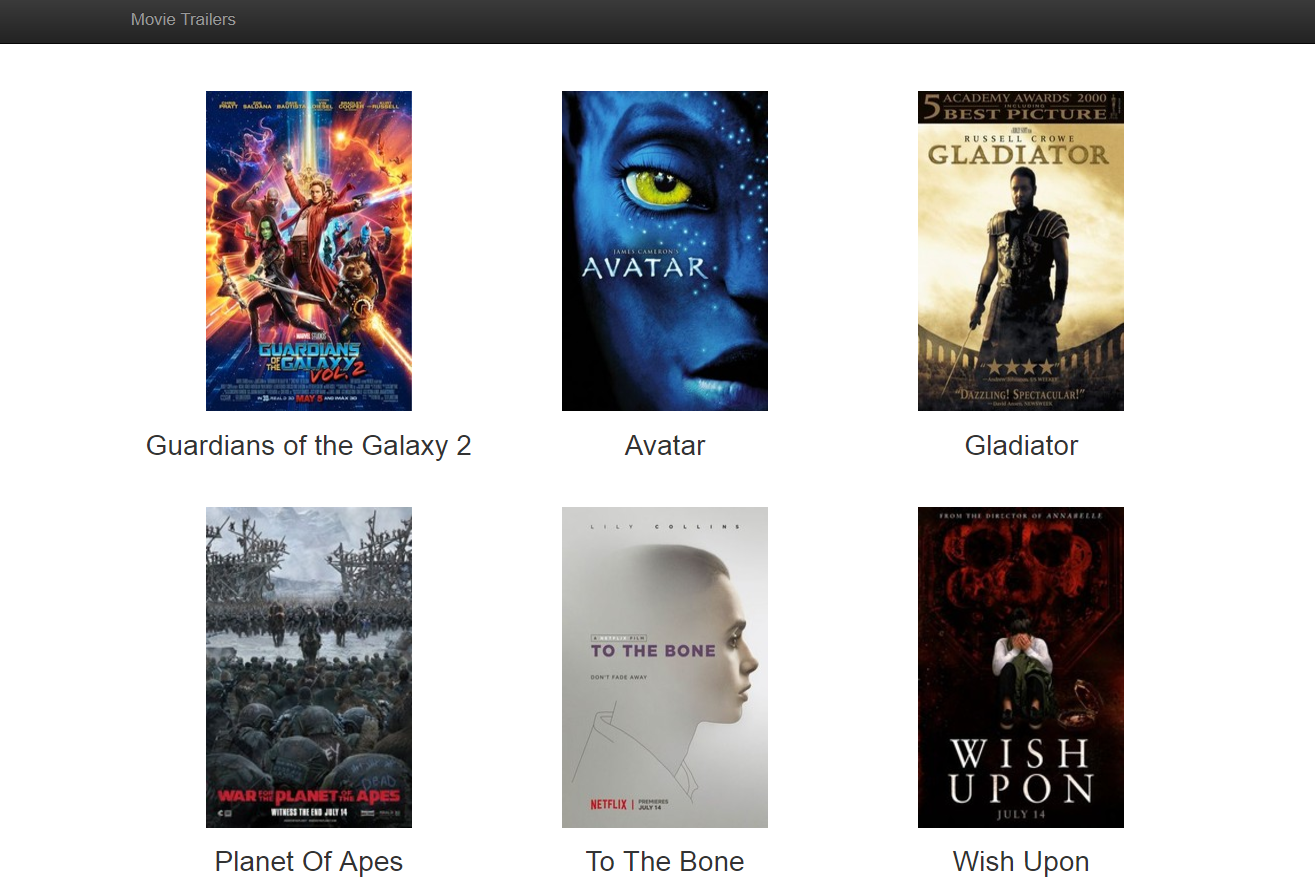
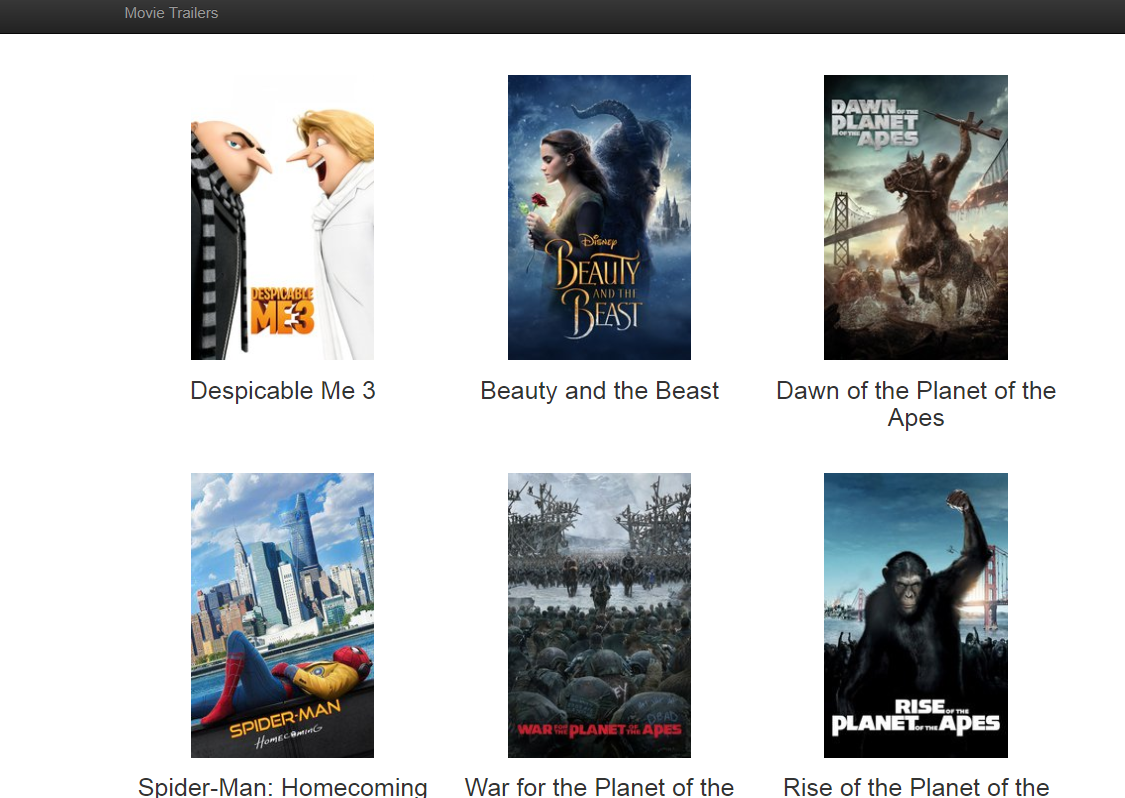
Updated to read from imdb api
Updated to read from imdb api

diff --git a/movie_trailers.html b/movie_trailers.html
@@ -104,34 +104,104 @@
     </div>
     <div class="container">
       
-<div class="col-md-6 col-lg-4 movie-tile text-center" data-trailer-youtube-id="c3986gGp3Qs" data-toggle="modal" data-target="#trailer">
-    <img src="../movie_posters/Galaxy2.png" width="220" height="342">
-    <h2>Guardians of the Galaxy 2</h2>
+<div class="col-md-6 col-lg-4 movie-tile text-center" data-trailer-youtube-id="6DBi41reeF0" data-toggle="modal" data-target="#trailer">
+    <img src="http://image.tmdb.org/t/p/w185//5qcUGqWoWhEsoQwNUrtf3y3fcWn.jpg" width="220" height="342">
+    <h2>Despicable Me 3</h2>
 </div>
 
-<div class="col-md-6 col-lg-4 movie-tile text-center" data-trailer-youtube-id="a0CDJZu4M5I" data-toggle="modal" data-target="#trailer">
-    <img src="../movie_posters/Avatar.png" width="220" height="342">
-    <h2>Avatar</h2>
+<div class="col-md-6 col-lg-4 movie-tile text-center" data-trailer-youtube-id="c38r-SAnTWM" data-toggle="modal" data-target="#trailer">
+    <img src="http://image.tmdb.org/t/p/w185//tWqifoYuwLETmmasnGHO7xBjEtt.jpg" width="220" height="342">
+    <h2>Beauty and the Beast</h2>
 </div>
 
-<div class="col-md-6 col-lg-4 movie-tile text-center" data-trailer-youtube-id="l-kV68xPVnM" data-toggle="modal" data-target="#trailer">
-    <img src="../movie_posters/Gladiator.png" width="220" height="342">
-    <h2>Gladiator</h2>
+<div class="col-md-6 col-lg-4 movie-tile text-center" data-trailer-youtube-id="DpSaTrW4leg" data-toggle="modal" data-target="#trailer">
+    <img src="http://image.tmdb.org/t/p/w185//qL0w9X1dVT3dnkZg3SrYtPFUHMs.jpg" width="220" height="342">
+    <h2>Dawn of the Planet of the Apes</h2>
 </div>
 
-<div class="col-md-6 col-lg-4 movie-tile text-center" data-trailer-youtube-id="3KWAxBlZKMA" data-toggle="modal" data-target="#trailer">
-    <img src="../movie_posters/PlanetOfApes.png" width="220" height="342">
-    <h2>Planet Of Apes</h2>
+<div class="col-md-6 col-lg-4 movie-tile text-center" data-trailer-youtube-id="lCkVr1n1eCA" data-toggle="modal" data-target="#trailer">
+    <img src="http://image.tmdb.org/t/p/w185//ApYhuwBWzl29Oxe9JJsgL7qILbD.jpg" width="220" height="342">
+    <h2>Spider-Man: Homecoming</h2>
 </div>
 
-<div class="col-md-6 col-lg-4 movie-tile text-center" data-trailer-youtube-id="705yRfs6Dbs" data-toggle="modal" data-target="#trailer">
-    <img src="../movie_posters/ToTheBone.png" width="220" height="342">
-    <h2>To The Bone</h2>
+<div class="col-md-6 col-lg-4 movie-tile text-center" data-trailer-youtube-id="UEP1Mk6Un98" data-toggle="modal" data-target="#trailer">
+    <img src="http://image.tmdb.org/t/p/w185//y52mjaCLoJJzxfcDDlksKDngiDx.jpg" width="220" height="342">
+    <h2>War for the Planet of the Apes</h2>
 </div>
 
-<div class="col-md-6 col-lg-4 movie-tile text-center" data-trailer-youtube-id="fkKaDoUh_so" data-toggle="modal" data-target="#trailer">
-    <img src="../movie_posters/WishUpon.png" width="220" height="342">
-    <h2>Wish Upon</h2>
+<div class="col-md-6 col-lg-4 movie-tile text-center" data-trailer-youtube-id="EbCoDf44oCE" data-toggle="modal" data-target="#trailer">
+    <img src="http://image.tmdb.org/t/p/w185//esqXMJv6PiK7GJVRwd2FA3SZUoW.jpg" width="220" height="342">
+    <h2>Rise of the Planet of the Apes</h2>
+</div>
+
+<div class="col-md-6 col-lg-4 movie-tile text-center" data-trailer-youtube-id="XaE_9pfybL4" data-toggle="modal" data-target="#trailer">
+    <img src="http://image.tmdb.org/t/p/w185//9EXnebqbb7dOhONLPV9Tg2oh2KD.jpg" width="220" height="342">
+    <h2>Logan</h2>
+</div>
+
+<div class="col-md-6 col-lg-4 movie-tile text-center" data-trailer-youtube-id="Heiy3mP9IIM" data-toggle="modal" data-target="#trailer">
+    <img src="http://image.tmdb.org/t/p/w185//h2mhfbEBGABSHo2vXG1ECMKAJa7.jpg" width="220" height="342">
+    <h2>Life</h2>
+</div>
+
+<div class="col-md-6 col-lg-4 movie-tile text-center" data-trailer-youtube-id="tsJeu11shJg" data-toggle="modal" data-target="#trailer">
+    <img src="http://image.tmdb.org/t/p/w185//imekS7f1OuHyUP2LAiTEM0zBzUz.jpg" width="220" height="342">
+    <h2>Wonder Woman</h2>
+</div>
+
+<div class="col-md-6 col-lg-4 movie-tile text-center" data-trailer-youtube-id="IjHgzkQM2Sg" data-toggle="modal" data-target="#trailer">
+    <img src="http://image.tmdb.org/t/p/w185//zxkY8byBnCsXodEYpK8tmwEGXBI.jpg" width="220" height="342">
+    <h2>The Mummy</h2>
+</div>
+
+<div class="col-md-6 col-lg-4 movie-tile text-center" data-trailer-youtube-id="HapT0SKcyfY" data-toggle="modal" data-target="#trailer">
+    <img src="http://image.tmdb.org/t/p/w185//myRzRzCxdfUWjkJWgpHHZ1oGkJd.jpg" width="220" height="342">
+    <h2>Ghost in the Shell</h2>
+</div>
+
+<div class="col-md-6 col-lg-4 movie-tile text-center" data-trailer-youtube-id="44LdLqgOpjo" data-toggle="modal" data-target="#trailer">
+    <img src="http://image.tmdb.org/t/p/w185//r2517Vz9EhDhj88qwbDVj8DCRZN.jpg" width="220" height="342">
+    <h2>Kong: Skull Island</h2>
+</div>
+
+<div class="col-md-6 col-lg-4 movie-tile text-center" data-trailer-youtube-id="bvu-zlR5A8Q" data-toggle="modal" data-target="#trailer">
+    <img src="http://image.tmdb.org/t/p/w185//jjBgi2r5cRt36xF6iNUEhzscEcb.jpg" width="220" height="342">
+    <h2>Jurassic World</h2>
+</div>
+
+<div class="col-md-6 col-lg-4 movie-tile text-center" data-trailer-youtube-id="b7yOuhI1dzU" data-toggle="modal" data-target="#trailer">
+    <img src="http://image.tmdb.org/t/p/w185//y31QB9kn3XSudA15tV7UWQ9XLuW.jpg" width="220" height="342">
+    <h2>Guardians of the Galaxy</h2>
+</div>
+
+<div class="col-md-6 col-lg-4 movie-tile text-center" data-trailer-youtube-id="-9FU7Ia-BKg" data-toggle="modal" data-target="#trailer">
+    <img src="http://image.tmdb.org/t/p/w185//iNpz2DgTsTMPaDRZq2tnbqjL2vF.jpg" width="220" height="342">
+    <h2>The Fate of the Furious</h2>
+</div>
+
+<div class="col-md-6 col-lg-4 movie-tile text-center" data-trailer-youtube-id="RllJtOw0USI" data-toggle="modal" data-target="#trailer">
+    <img src="http://image.tmdb.org/t/p/w185//5vHssUeVe25bMrof1HyaPyWgaP.jpg" width="220" height="342">
+    <h2>John Wick</h2>
+</div>
+
+<div class="col-md-6 col-lg-4 movie-tile text-center" data-trailer-youtube-id="naQr0uTrH_s" data-toggle="modal" data-target="#trailer">
+    <img src="http://image.tmdb.org/t/p/w185//tkt9xR1kNX5R9rCebASKck44si2.jpg" width="220" height="342">
+    <h2>Pirates of the Caribbean: The Curse of the Black Pearl</h2>
+</div>
+
+<div class="col-md-6 col-lg-4 movie-tile text-center" data-trailer-youtube-id="hEJnMQG9ev8" data-toggle="modal" data-target="#trailer">
+    <img src="http://image.tmdb.org/t/p/w185//kqjL17yufvn9OVLyXYpvtyrFfak.jpg" width="220" height="342">
+    <h2>Mad Max: Fury Road</h2>
+</div>
+
+<div class="col-md-6 col-lg-4 movie-tile text-center" data-trailer-youtube-id="Hgeu5rhoxxY" data-toggle="modal" data-target="#trailer">
+    <img src="http://image.tmdb.org/t/p/w185//xbpSDU3p7YUGlu9Mr6Egg2Vweto.jpg" width="220" height="342">
+    <h2>Pirates of the Caribbean: Dead Men Tell No Tales</h2>
+</div>
+
+<div class="col-md-6 col-lg-4 movie-tile text-center" data-trailer-youtube-id="11" data-toggle="modal" data-target="#trailer">
+    <img src="http://image.tmdb.org/t/p/w185//f8Ng1Sgb3VLiSwAvrfKeQPzvlfr.jpg" width="220" height="342">
+    <h2>Transformers: The Last Knight</h2>
 </div>
 
     </div>

diff --git a/movie_site.py b/movie_site.py
@@ -1,31 +1,5 @@
-import movie
+import movie_list
 import fresh_tomatoes
 
-image_dir = "../movie_posters/"
-
-galaxy = movie.Movie("Guardians of the Galaxy 2",
-                     "https://www.youtube.com/watch?v=c3986gGp3Qs",
-                     image_dir+"Galaxy2.png")
-
-avatar = movie.Movie("Avatar",
-                     "https://www.youtube.com/watch?v=a0CDJZu4M5I",
-                     image_dir+"Avatar.png")
-
-gladiator = movie.Movie("Gladiator",
-                        "https://www.youtube.com/watch?v=l-kV68xPVnM",
-                        image_dir+"Gladiator.png")
-
-planetofapes = movie.Movie("Planet Of Apes",
-                           "https://www.youtube.com/watch?v=3KWAxBlZKMA",
-                           image_dir+"PlanetOfApes.png")
-
-tothebone = movie.Movie("To The Bone",
-                        "https://www.youtube.com/watch?v=705yRfs6Dbs",
-                        image_dir+"ToTheBone.png")
-
-wishupon = movie.Movie("Wish Upon",
-                       "https://www.youtube.com/watch?v=fkKaDoUh_so",
-                       image_dir+"WishUpon.png")
-
-movies_list = [galaxy, avatar, gladiator, planetofapes, tothebone, wishupon]
+movies_list = movie_list.get_movie_list()
 fresh_tomatoes.open_movies_page(movies_list)

diff --git a/movie_list.py b/movie_list.py
@@ -1,0 +1,30 @@
+import imdb_api
+import json
+import movie
+
+def get_movie_list():
+  movies_list_response = imdb_api.get_movies()
+  movie_list = create_movie_list(movies_list_response)
+  return movie_list
+
+def create_movie_list(movies_json):
+  movie_list = []
+  for movie in movies_json:
+    movie_list.append(create_movie(movie))
+  return movie_list
+
+def create_movie(movie_json):
+  title = movie_json['title']
+  poster_image_url = get_poster_url(movie_json['poster_path'])
+  trailer_url = get_trailer_url(movie_json['id'])
+  movie_object = movie.Movie(title, trailer_url, poster_image_url)
+  return movie_object
+
+def get_poster_url(partial_url):
+  poster_url = "http://image.tmdb.org/t/p/w185/" + partial_url
+  print(poster_url)
+  return poster_url
+
+def get_trailer_url(movie_id):
+  trailer_url = "https://www.youtube.com/watch?v=" + imdb_api.get_youtube_key(movie_id)
+  return trailer_url

diff --git a/imdb_api.py b/imdb_api.py
@@ -1,0 +1,16 @@
+import requests
+
+API_URL = 'https://api.themoviedb.org/3'
+API_KEY = '23da819564151522ea34dec29e90d954'
+
+def get_movies(URL = 'https://api.themoviedb.org/3/discover/movie?api_key=63deb316427624bb95cf1d828e19b7a2&language=en-US&sort_by=popularity.desc&include_adult=false&include_video=false&page=1'): # noqa
+	response = requests.get(URL)
+	return response.json()['results']
+
+def get_movie_api_url():
+	return API_URL + '/movie?api_key=' + API_KEY + '&language=en-US&sort_by=popularity.desc&include_adult=false&include_video=false&page=1'
+
+def get_youtube_key(movie_id):
+	trailerURL = API_URL + '/movie/' + str(movie_id) + '/videos?api_key='+ API_KEY + '&language=en-US'
+	response = requests.get(trailerURL)
+	return response.json()['results'][0]['key']

diff --git a/README.md b/README.md
@@ -2,31 +2,41 @@
 
 This project showcases using classes in python to create a simple movie trailer website.
 
-### movie.py ###
+### About the Code ###
+
+#### movie.py ####
 
 This file has the code for a Movie class which has the following three attributes. 
 
 1. Title
-2. Trailer Url
-3. Poster Image
+2. Youtube Trailer URL
+3. Poster Image URL
 
 The class also has a `show_trailer()` function that plays the trailer video. 
 
-### movie_site.py ###
+#### imdb_api.py ####
 
-This file has the code to create a list of movie instances that uses the Movie class in `movie.py` to create instances of the movie class. The movie instance is created by passing the values to the `__init__` constructor of the Movie class.
-   
-### fresh_tomatoes.py ###
+This file has the code for to call the imdb serivce to get a list of movies. 
+
+#### movie_list.py ####
+
+This calls the `imdb_api.py` to get a list of movies. The json response is converted into a list of movie objects.
+The movie instance is created by passing the values to the `__init__` constructor of the Movie class in `movie.py`.
+
+#### movie_site.py ####
+
+This file has the code to call `movie_list.py` to create a list of movies. 
+
+#### fresh_tomatoes.py ####
 
 This file has the code to create the html page and render the movie trailers. The movie list is passed to the `open_movies_page` function.
-
 
 ### Installation, Setup and running the website ###
 
 1. Install and setup python 3.6 or above
-2. Clone the project from the following github repository [MovieTrailerWebsite](https://github.com/oopsoa/MovieTrailerWebsite)
+2. Download or Clone the project from the [MovieTrailerWebsite](https://github.com/oopsoa/MovieTrailerWebsite) github repository 
 3. Run the following python script to launch the website `python movie_site.py`
-4. `movie_trailer.html` file will be generated and launched with a list of movies
+4. `movie_trailer.html` file will be generated and launched with a list of movies received from imdb
 
 ### Rendered movie_trailer.html ###
 
